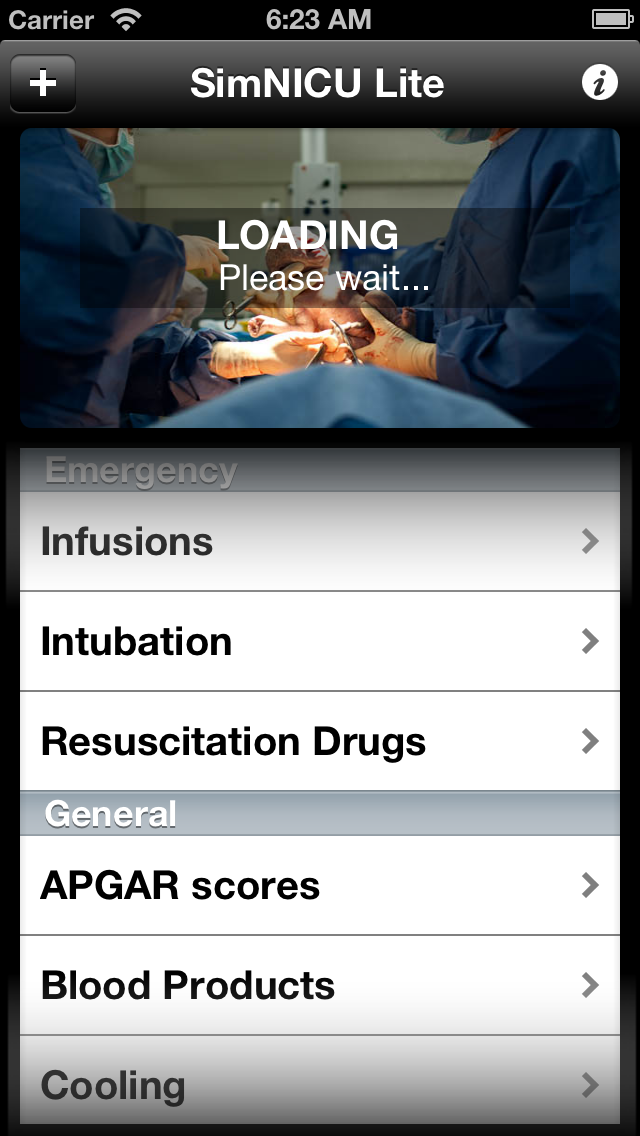
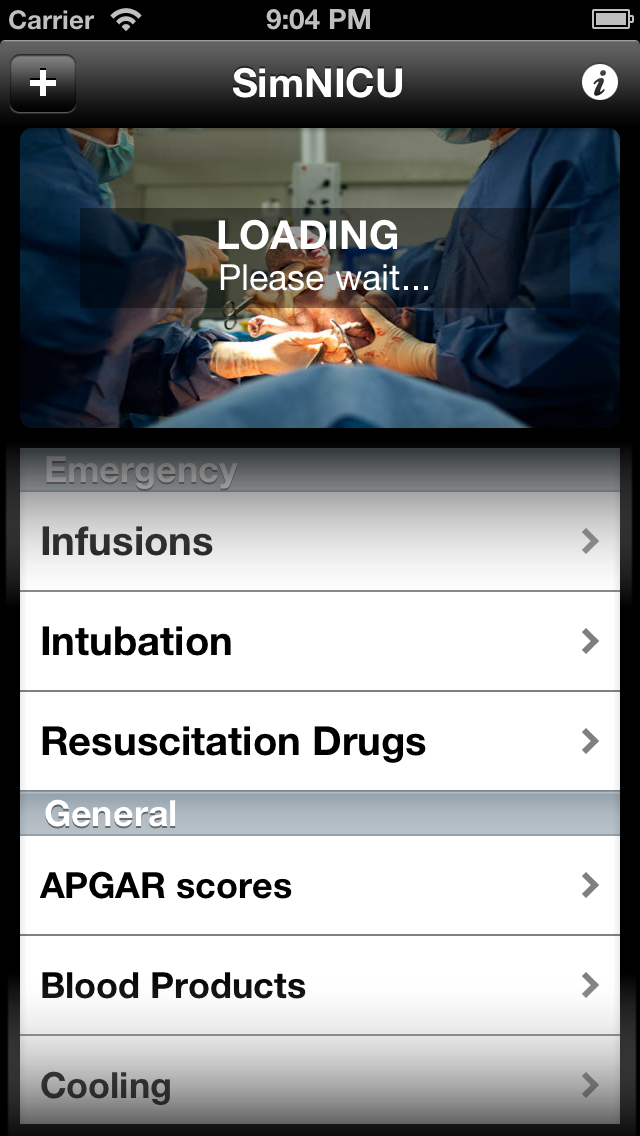
New Launch images for SimNICU Commented out unfinished options

diff --git a/SimNICU/SimNICU/SimNICU/SimNICU/EnterWeightViewController.m b/SimNICU/SimNICU/SimNICU/SimNICU/EnterWeightViewController.m
@@ -700,12 +700,12 @@
                 if(!cell)
                 {
                     cell = [[UITableViewCell alloc] initWithStyle:UITableViewCellStyleSubtitle reuseIdentifier:CellIdentifier];
-                    cell.accessoryType = UITableViewCellAccessoryDisclosureIndicator;
+                    cell.accessoryType = UITableViewCellAccessoryNone;// change later
                     cell.backgroundColor = [UIColor whiteColor];
                 }
                 
                 cell.textLabel.text = NSLocalizedString(@"Handover", nil);
-                cell.detailTextLabel.text = @"In progress - planned for 2014";
+                cell.detailTextLabel.text = @"Coming 2014!";
                 
                 returnCell = cell;
             }
@@ -798,7 +798,9 @@
         cell.detailTextLabel.text = [patient returnTwoLineDetailDisplayLabelText];
         
         // check if any warnings should be shown in patient list
-        BOOL patientMeetsCriteriaForROPScreening = [patient meetsCriteriaForROPScreening];
+        // BOOL patientMeetsCriteriaForROPScreening = [patient meetsCriteriaForROPScreening];
+#warning remove next line for release
+        BOOL patientMeetsCriteriaForROPScreening = NO; // disables for next release
         
         BOOL patientMeetsCriteriaForRoutineCrUSS = NO;
         
@@ -1063,14 +1065,23 @@
 
 - (NSIndexPath *)tableView:(UITableView *)tableView willSelectRowAtIndexPath:(NSIndexPath *)indexPath
 {
-    NSIndexPath *path = nil;
+    NSIndexPath *path = indexPath;
     
     if (indexPath.section == 1) 
     {
-        // only disallow 'Patient List' toggle row to be selected
-        if (!indexPath.row == 0) path = indexPath;
+        // disallow 'Patient List' toggle row to be selected
+        if (indexPath.row == 0)
+        {
+            path = nil;
+        }
+        else if (self.patientListMode == 1)
+        {
+            if (indexPath.row == 1)
+            {
+                path = nil;
+            }
+        }
     }
-    else path = indexPath;
     
     return path;
 }

diff --git a/SimNICU/SimNICU/SimNICU/SimNICU/AppViewController.m b/SimNICU/SimNICU/SimNICU/SimNICU/AppViewController.m
@@ -466,11 +466,6 @@
     Screen *screen;
     
     screen = [[Screen alloc] init];
-    screen.menuText = @"Age";
-    screen.segueId = @"Age Calculators";
-    [screens addObject:screen];
-    
-    screen = [[Screen alloc] init];
     screen.menuText = @"APGAR scores";
     screen.segueId = @"APGAR";
     [screens addObject:screen];
@@ -480,15 +475,22 @@
     screen.segueId = @"BloodProducts";
     [screens addObject:screen];
     
+    /*
     screen = [[Screen alloc] init];
     screen.menuText = @"Calculator";
     screen.detailMenuText = @"Almost finished!";
     screen.segueId = @"Calculator";
     [screens addObject:screen];
+     */
     
     screen = [[Screen alloc] init];
     screen.menuText = @"Cooling";
     screen.segueId = @"Cooling";
+    [screens addObject:screen];
+    
+    screen = [[Screen alloc] init];
+    screen.menuText = @"Corrected Age";
+    screen.segueId = @"Age Calculators";
     [screens addObject:screen];
     
     screen = [[Screen alloc] init];
@@ -506,31 +508,30 @@
     screen.segueId = @"CDH";
     [screens addObject:screen];
     
+    /*
     screen = [[Screen alloc] init];
     screen.menuText = @"Drugs";
     screen.detailMenuText = @"Currently working on!";
     screen.segueId = @"Drugs";
     [screens addObject:screen];
+     */
     
     screen = [[Screen alloc] init];
     screen.menuText = @"Early Care";
     screen.segueId = @"EarlyCare";
     [screens addObject:screen];
     
+    /*
     screen = [[Screen alloc] init];
     screen.menuText = @"Feeds & Fluids";
     screen.detailMenuText = @"Coming soon!";
     screen.segueId = @"FeedsAndFluids";
     [screens addObject:screen];
+     */
     
     screen = [[Screen alloc] init];
     screen.menuText = @"Gastroschisis";
     screen.segueId = @"Gastroschisis";
-    [screens addObject:screen];
-    
-    screen = [[Screen alloc] init];
-    screen.menuText = @"Gestational Age";
-    screen.segueId = @"Gestational Age";
     [screens addObject:screen];
     
     screen = [[Screen alloc] init];

diff --git a/SimNICU/SimNICU/SimNICU/SimNICU/AgeCalculatorsViewController.m b/SimNICU/SimNICU/SimNICU/SimNICU/AgeCalculatorsViewController.m
@@ -66,13 +66,17 @@
         calculator.detailText = @"After neonatal hospital stay";
         [calculators addObject:calculator];
         
+#warning features to complete
+        /*
         calculator = [[Calculator alloc] init];
         calculator.text = @"Decimal age";
         calculator.detailText = @"for older growth charts";
         [calculators addObject:calculator];
+         */
         
         [calculatorGroup addObject:calculators];
         
+        /*
         calculators = [[NSMutableArray alloc] initWithCapacity:2];
         
         calculator = [[Calculator alloc] init];
@@ -86,6 +90,7 @@
         [calculators addObject:calculator];
         
         [calculatorGroup addObject:calculators];
+         */
         
         self.navigationItem.backBarButtonItem = [[UIBarButtonItem alloc] initWithTitle:@"Back"
                                                                                  style:UIBarButtonItemStyleBordered
